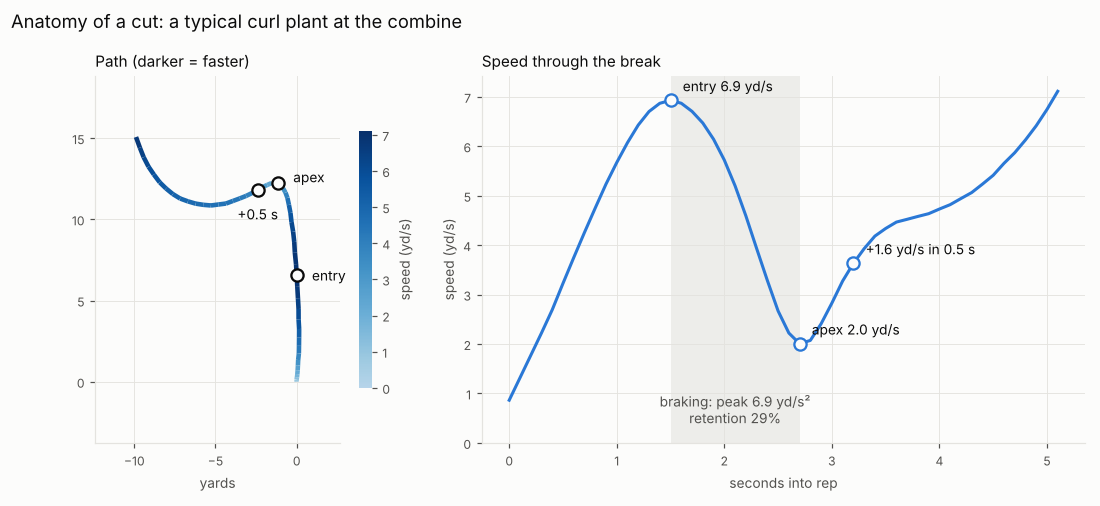
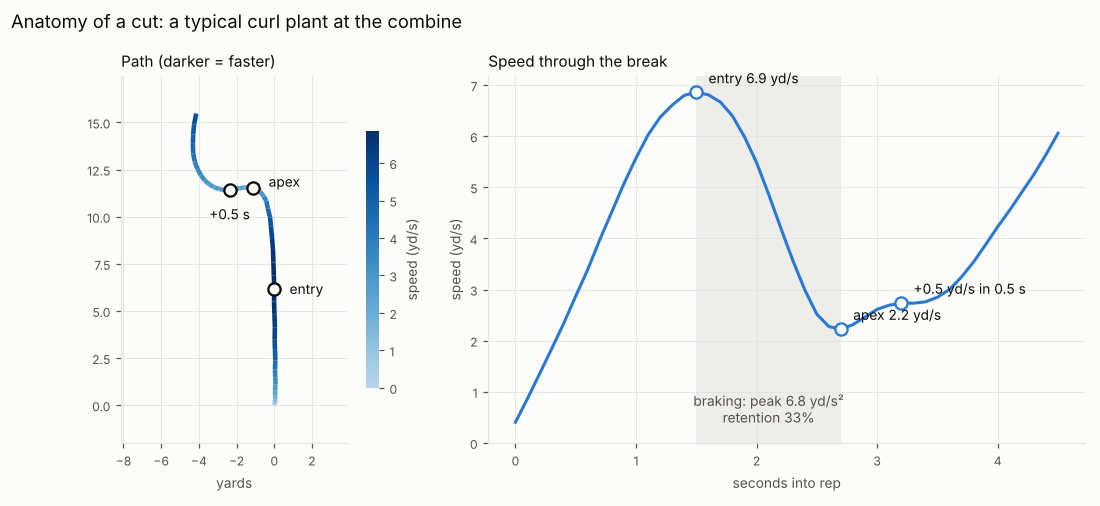
Score cuts against breaks of equal sharpness; generalize feature helpers
- slot_z now z-scores each metric's residual after a linear fit on the
  break's turn angle within its slot (a sharper break must cost more
  speed). Raises the pre-registered combine features' split-half
  reliability from 0.51-0.58 to 0.55-0.63 and the agility validity of
  braking vs official shuttle / 3-cone times from -0.50 / -0.44 to
  -0.58 / -0.53. Chosen on reliability only.
- slot_z, player_features and split_half_reliability take the drill /
  route column, the rep id and the split unit as parameters, so game
  routes reuse them; reliability splits are sorted first so results
  don't depend on row order.
- player_features no longer crashes on a subset with cuts in only one
  direction (left - right becomes NaN).
- cuts_for_reps records each cut's apex timestamp.
- Phase 1 report: named table indexes, wider anatomy path panel.

Claude-Session: https://claude.ai/code/session_01KARSdv58GFQzwQ5X8XHC21

diff --git a/src/features.py b/src/features.py
@@ -1,15 +1,21 @@
-"""Player-level combine cut features.
+"""Player-level cut features (combine drills and game routes).
 
 Raw cut metrics are not comparable across breaks (a 180-degree curl costs far
 more speed than a 45-degree slant break), and players ran different drill sets.
 So each metric is z-scored within its *slot*: the same break of the same drill
-across players. A player's feature is the mean of those z-scores over their
-cuts, so 0 = average for the breaks they ran.
+across players, after adjusting for how sharp the break was. A player's feature
+is the mean of those z-scores over their cuts, so 0 = average for the breaks
+they ran.
 
 Slots in route drills are drill x turn direction x order (the curl's plant is
 CURL_ROUTE_RIGHT|L1, the turn upfield after the catch is CURL_ROUTE_RIGHT|R1),
 because each route breaks a fixed way. In the shuttle and 3-cone the player
 chooses which way to turn, so slots there are drill x cut order.
+
+Game routes use the same scheme with the route type in place of the drill
+(`base="route_ran"`), extra adjustments for play design (`covariates`, see
+`src/game.py`), and games in place of drills as the unit for split-half
+reliability (`unit="game_id"`).
 """
 from __future__ import annotations
 
@@ -44,23 +50,46 @@ def combine_cuts(con, drill_types: tuple[str, ...]) -> pd.DataFrame:
     return cuts.join(reps, on="event_id")
 
 
-def slot_z(cuts: pd.DataFrame, by_direction: bool, metrics=tuple(METRICS)) -> pd.DataFrame:
-    """Add `slot` and `<metric>_z` (z-score within slot). Slots with < MIN_CUTS_PER_SLOT cuts are dropped."""
-    c = cuts.sort_values(["event_id", "apex_frame"]).copy()
+def slot_z(cuts: pd.DataFrame, by_direction: bool, metrics=tuple(METRICS), base: str = "drill_name",
+           rep: str = "event_id", covariates: tuple[str, ...] = ("turn_deg",)) -> pd.DataFrame:
+    """Add `slot` and `<metric>_z`: the metric's residual within its slot after a linear fit on
+    `covariates`, divided by the slot's residual SD. Slots with < MIN_CUTS_PER_SLOT cuts are dropped.
+
+    The default adjusts for the turn angle, so breaks are compared at equal sharpness: a sharper
+    break has to cost more speed. `base` names the drill (or route type) column and `rep` the
+    column identifying one rep (or route).
+    """
+    c = cuts.sort_values([rep, "apex_frame"]).copy()
     if by_direction:
-        order = c.groupby(["event_id", "turn_dir"]).cumcount() + 1
-        c["slot"] = c["drill_name"] + "|" + c["turn_dir"] + order.astype(str)
+        order = c.groupby([rep, "turn_dir"]).cumcount() + 1
+        c["slot"] = c[base] + "|" + c["turn_dir"] + order.astype(str)
     else:
-        c["slot"] = c["drill_name"] + "|" + (c["cut_idx"] + 1).astype(str)
-    c = c[c.groupby("slot")["event_id"].transform("size") >= MIN_CUTS_PER_SLOT].copy()
+        order = c.groupby(rep).cumcount() + 1
+        c["slot"] = c[base] + "|" + order.astype(str)
+    c = c[c.groupby("slot")[rep].transform("size") >= MIN_CUTS_PER_SLOT].copy()
     for m in metrics:
-        g = c.groupby("slot")[m]
-        c[f"{m}_z"] = (c[m] - g.transform("mean")) / g.transform("std")
+        c[f"{m}_z"] = np.nan
+    for _, idx in c.groupby("slot").groups.items():
+        d = c.loc[idx]
+        cov = d[list(covariates)].to_numpy(float).reshape(len(d), len(covariates))
+        cov = cov[:, np.nan_to_num(np.nanstd(cov, axis=0)) > 0]  # drop covariates constant within the slot
+        X = np.column_stack([np.ones(len(d)), cov])
+        for m in metrics:
+            y = d[m].to_numpy(float)
+            ok = np.isfinite(y) & np.isfinite(X).all(axis=1)
+            if ok.sum() < MIN_CUTS_PER_SLOT:
+                continue
+            beta, *_ = np.linalg.lstsq(X[ok], y[ok], rcond=None)
+            r = y - X @ beta
+            c.loc[idx, f"{m}_z"] = np.where(ok, r / np.std(r[ok], ddof=X.shape[1]), np.nan)
     return c
 
 
-def player_features(zcuts: pd.DataFrame, prefix: str, metrics=tuple(METRICS)) -> pd.DataFrame:
-    """One row per player: mean drill-z per metric, plus left/right asymmetry and consistency.
+def player_features(zcuts: pd.DataFrame, prefix: str, metrics=tuple(METRICS),
+                    unit: str = "drill_name", unit_label: str = "drills") -> pd.DataFrame:
+    """One row per player: mean slot-z per metric, plus left/right asymmetry and consistency.
+
+    `<prefix>_n_cuts`, `<prefix>_n_<unit_label>`  cuts and distinct units (drills or games) behind the row
 
     `<prefix>_<metric>`          mean z over all cuts
     `<prefix>_<metric>_lr`       mean z on left cuts minus mean z on right cuts
@@ -69,35 +98,36 @@ def player_features(zcuts: pd.DataFrame, prefix: str, metrics=tuple(METRICS)) ->
     g = zcuts.groupby("nfl_id")
     feats = pd.DataFrame({
         f"{prefix}_n_cuts": g.size(),
-        f"{prefix}_n_drills": g["drill_name"].nunique(),
+        f"{prefix}_n_{unit_label}": g[unit].nunique(),
     })
     for m in metrics:
         z = f"{m}_z"
         feats[f"{prefix}_{m}"] = g[z].mean()
         side = zcuts.pivot_table(index="nfl_id", columns="turn_dir", values=z, aggfunc="mean")
-        feats[f"{prefix}_{m}_lr"] = side.get("L") - side.get("R")
+        side = side.reindex(columns=["L", "R"])  # a subset may hold no cuts in one direction
+        feats[f"{prefix}_{m}_lr"] = side["L"] - side["R"]
         feats[f"{prefix}_{m}_sd"] = g[z].std()
     return feats
 
 
 def split_half_reliability(zcuts: pd.DataFrame, n_iter: int = 200, seed: int = 0,
-                           metrics=tuple(METRICS), min_drills: int = 4) -> pd.DataFrame:
+                           metrics=tuple(METRICS), min_units: int = 4, unit: str = "drill_name") -> pd.DataFrame:
     """Spearman-Brown corrected split-half reliability of each player feature.
 
-    Each iteration splits every player's drills at random into two halves (a
-    drill's cuts stay together), computes the feature on each half, and
-    correlates the halves across players.
+    Each iteration splits every player's units (drills, or games) at random into
+    two halves (a unit's cuts stay together), computes the feature on each half,
+    and correlates the halves across players with at least `min_units` units.
     """
     rng = np.random.default_rng(seed)
-    z = zcuts[zcuts.groupby("nfl_id")["drill_name"].transform("nunique") >= min_drills]
-    pairs = z[["nfl_id", "drill_name"]].drop_duplicates()
+    z = zcuts[zcuts.groupby("nfl_id")[unit].transform("nunique") >= min_units]
+    pairs = z[["nfl_id", unit]].drop_duplicates().sort_values(["nfl_id", unit])
     stats = {k: [] for m in metrics for k in (m, f"{m}_lr", f"{m}_sd")}
     for _ in range(n_iter):
         half = pairs.assign(h=rng.random(len(pairs)))
         half["h"] = half.groupby("nfl_id")["h"].rank(method="first") % 2
-        zz = z.merge(half, on=["nfl_id", "drill_name"])
-        a = player_features(zz[zz.h == 0], "f", metrics)
-        b = player_features(zz[zz.h == 1], "f", metrics)
+        zz = z.merge(half, on=["nfl_id", unit])
+        a = player_features(zz[zz.h == 0], "f", metrics, unit=unit)
+        b = player_features(zz[zz.h == 1], "f", metrics, unit=unit)
         for k in stats:
             r = a[f"f_{k}"].corr(b[f"f_{k}"])
             stats[k].append(2 * r / (1 + r) if r > -1 else np.nan)

diff --git a/notebooks/01_combine_features.py b/notebooks/01_combine_features.py
@@ -101,7 +101,8 @@ report.extend([
     "- Per cut: speed into the break (max over the prior 1.5 s), apex speed, speed retention (apex / entry), "
     "peak braking, distance used to slow down, peak lateral acceleration, speed regained 0.5 s after the apex.",
     "- Each metric is z-scored within its **slot** (the same break of the same drill across players, e.g. "
-    "the curl's plant). A player's feature is their mean z, so players who ran different drills are comparable.",
+    "the curl's plant) after a linear adjustment for the break's turn angle, so breaks are compared at equal "
+    "sharpness. A player's feature is their mean z, so players who ran different drills are comparable.",
     "",
 ])
 
@@ -224,11 +225,12 @@ stop = ["forty", "ten_yd_split", "three_cone", "short_shuttle", "vertical", "bro
         "combine_height"]
 wr = feats[feats.combine_position == "WR"].join(cr[stop])
 cols = [f"pos_{m}" for m in F.METRICS]
-vs = pd.DataFrame({c: [wr[f].corr(wr[c]) for f in cols] for c in stop}, index=list(F.METRICS))
+vs = pd.DataFrame({c: [wr[f].corr(wr[c]) for f in cols] for c in stop}, index=pd.Index(list(F.METRICS), name="feature"))
 section("WR features vs standard combine results (Pearson r)", vs, index=True,
         note=f"{len(wr)} WRs; 3-cone and shuttle times exist for only ~1/3 of them. Small |r| against the "
              "40 means the cut features are not just straight-line speed again.")
-section("WR feature intercorrelations", wr[cols].corr().set_axis(list(F.METRICS)).set_axis(list(F.METRICS), axis=1),
+section("WR feature intercorrelations",
+        wr[cols].corr().set_axis(pd.Index(list(F.METRICS), name="feature")).set_axis(list(F.METRICS), axis=1),
         index=True)
 
 # %% [markdown]
@@ -264,8 +266,10 @@ for i, label, off, ha in [(entry, "entry", (10, 0), "left"), (apex, "apex", (10,
     ax0.annotate(label, (x[i], y[i]), xytext=off, textcoords="offset points", color=INK, fontsize=9,
                  va="center", ha=ha)
 ax0.set_aspect("equal")
-ax0.autoscale()
-ax0.margins(0.25)
+# At least +/-6 yd of width, so labels beside a narrow path stay clear of the color bar.
+cx, half = (x.min() + x.max()) / 2, max((x.max() - x.min()) / 2 + 3, 6)
+ax0.set_xlim(cx - half, cx + half)
+ax0.set_ylim(y.min() - 2, y.max() + 2)
 ax0.set_title("Path (darker = faster)", loc="left")
 ax0.set_xlabel("yards")
 cb = fig.colorbar(lc, ax=ax0, shrink=0.7)

diff --git a/tests/test_features.py b/tests/test_features.py
@@ -1,0 +1,33 @@
+"""Slot scoring: the turn-angle adjustment separates a player's mechanics from how sharp their breaks were."""
+import numpy as np
+import pandas as pd
+
+from src.features import player_features, slot_z
+
+
+def test_slot_z_adjusts_for_turn_angle():
+    rng = np.random.default_rng(0)
+    rows = []
+    for player, (skill, sharpness) in enumerate([(+0.1, 30), (0.0, 60), (-0.1, 90)]):
+        for rep in range(40):
+            turn = sharpness + rng.normal(0, 5)
+            # Retention falls with sharper breaks; within that, player 0 keeps the most speed.
+            rows.append({"event_id": f"{player}_{rep}", "nfl_id": player, "drill_name": "D", "turn_dir": "L",
+                         "apex_frame": 10, "turn_deg": turn,
+                         "speed_retention": 1.0 - turn / 120 + skill + rng.normal(0, 0.02)})
+    cuts = pd.DataFrame(rows)
+    raw = player_features(slot_z(cuts, True, metrics=("speed_retention",), covariates=()), "f",
+                          metrics=("speed_retention",))
+    adj = player_features(slot_z(cuts, True, metrics=("speed_retention",)), "f", metrics=("speed_retention",))
+    # Unadjusted, the gentle-breaking player looks best by a wide margin; adjusted, the skill order holds
+    # and the gap shrinks to what skill alone explains.
+    assert raw["f_speed_retention"].idxmax() == 0
+    assert adj["f_speed_retention"].is_monotonic_decreasing
+    spread = lambda f: f["f_speed_retention"].max() - f["f_speed_retention"].min()
+    assert spread(adj) < spread(raw)
+
+
+def test_slot_z_drops_small_slots():
+    cuts = pd.DataFrame({"event_id": [f"r{i}" for i in range(5)], "nfl_id": 1, "drill_name": "D",
+                         "turn_dir": "L", "apex_frame": 10, "turn_deg": 45.0, "speed_retention": 0.9})
+    assert slot_z(cuts, True, metrics=("speed_retention",)).empty

diff --git a/src/cuts.py b/src/cuts.py
@@ -148,6 +148,8 @@ def cuts_for_reps(frames: pd.DataFrame, rep_cols: list[str]) -> pd.DataFrame:
             continue
         k = kinematics(r["x"].to_numpy(float), r["y"].to_numpy(float))
         key = key if isinstance(key, tuple) else (key,)
+        times = r["time"].to_numpy()
         for i, c in enumerate(detect_cuts(k)):
-            out.append({**dict(zip(rep_cols, key)), "cut_idx": i, "n_frames": len(r), **c})
+            out.append({**dict(zip(rep_cols, key)), "cut_idx": i, "n_frames": len(r),
+                        "apex_time": times[c["apex_frame"]], **c})
     return pd.DataFrame(out)

diff --git a/reports/01_combine_features.md b/reports/01_combine_features.md
@@ -9,16 +9,16 @@ Generated by `notebooks/01_combine_features.py`. Do not edit by hand.
 - [x] go route: no cuts on a straight sprint — 100% of 105 reps
 - [x] 3-cone: median of ≥ 4 cuts per rep
 - [x] first-break direction matches the route in ≥ 90% of reps, every route — min 91%
-- [x] SHORT_SHUTTLE: harder braking goes with a faster official time — r = -0.50
-- [x] THREE_CONE_DRILL: harder braking goes with a faster official time — r = -0.44
-- [x] pre-registered WR features have split-half reliability ≥ 0.45 — entry_speed 0.58, speed_retention 0.51, peak_lat_accel 0.53
+- [x] SHORT_SHUTTLE: harder braking goes with a faster official time — r = -0.58
+- [x] THREE_CONE_DRILL: harder braking goes with a faster official time — r = -0.53
+- [x] pre-registered WR features have split-half reliability ≥ 0.45 — entry_speed 0.63, speed_retention 0.55, peak_lat_accel 0.59
 
 ## Method
 
 - x/y are smoothed with a Savitzky–Golay filter (0.7 s, quadratic); velocity and acceleration come from its derivatives, split into along-track (braking / re-acceleration) and lateral (turning) parts. The same code will run on game routes in Phase 2.
 - A **cut** is a peak of at least 30° in the turn between the velocity 0.5 s before and 0.5 s after a frame. Its **apex** is the slowest frame near that peak. Cuts need ≥ 2 yd/s going in and ≥ 1.5 yd/s coming out.
 - Per cut: speed into the break (max over the prior 1.5 s), apex speed, speed retention (apex / entry), peak braking, distance used to slow down, peak lateral acceleration, speed regained 0.5 s after the apex.
-- Each metric is z-scored within its **slot** (the same break of the same drill across players, e.g. the curl's plant). A player's feature is their mean z, so players who ran different drills are comparable.
+- Each metric is z-scored within its **slot** (the same break of the same drill across players, e.g. the curl's plant) after a linear adjustment for the break's turn angle, so breaks are compared at equal sharpness. A player's feature is their mean z, so players who ran different drills are comparable.
 
 ## Cuts detected per rep
 
@@ -93,8 +93,8 @@ Negative = more of the feature goes with a faster official time. Players of all 
 
 | drill | players | entry_speed | speed_retention | peak_decel | decel_dist | peak_lat_accel | reaccel_gain |
 |---|---|---|---|---|---|---|---|
-| SHORT_SHUTTLE | 159 | -0.22 | 0.08 | -0.50 | 0.03 | -0.01 | -0.42 |
-| THREE_CONE_DRILL | 149 | -0.46 | -0.24 | -0.44 | 0.26 | -0.31 | -0.09 |
+| SHORT_SHUTTLE | 159 | -0.23 | -0.08 | -0.58 | 0.05 | -0.04 | -0.50 |
+| THREE_CONE_DRILL | 149 | -0.40 | -0.17 | -0.53 | 0.14 | -0.27 | -0.33 |
 
 ## Split-half reliability of WR position-drill features
 
@@ -102,36 +102,36 @@ Negative = more of the feature goes with a faster official time. Players of all 
 
 | metric | mean | left − right | consistency (SD) |
 |---|---|---|---|
-| entry_speed | 0.58 | -0.04 | 0.18 |
-| speed_retention | 0.51 | -0.17 | 0.25 |
-| peak_decel | 0.40 | 0.08 | 0.38 |
-| decel_dist | 0.23 | -0.02 | 0.00 |
-| peak_lat_accel | 0.53 | -0.10 | 0.28 |
-| reaccel_gain | 0.11 | -0.30 | 0.32 |
+| entry_speed | 0.63 | -0.08 | 0.10 |
+| speed_retention | 0.55 | -0.20 | 0.41 |
+| peak_decel | 0.33 | 0.18 | 0.39 |
+| decel_dist | 0.21 | 0.02 | -0.01 |
+| peak_lat_accel | 0.59 | 0.05 | 0.25 |
+| reaccel_gain | -0.02 | -0.25 | 0.31 |
 
 ## WR features vs standard combine results (Pearson r)
 
 107 WRs; 3-cone and shuttle times exist for only ~1/3 of them. Small |r| against the 40 means the cut features are not just straight-line speed again.
 
-| index | forty | ten_yd_split | three_cone | short_shuttle | vertical | broad_jump | combine_weight | combine_height |
+| feature | forty | ten_yd_split | three_cone | short_shuttle | vertical | broad_jump | combine_weight | combine_height |
 |---|---|---|---|---|---|---|---|---|
-| entry_speed | -0.09 | -0.00 | -0.14 | -0.20 | -0.06 | 0.06 | -0.06 | -0.01 |
-| speed_retention | -0.04 | 0.13 | -0.37 | 0.10 | 0.04 | -0.17 | 0.01 | -0.03 |
-| peak_decel | 0.04 | -0.13 | 0.35 | -0.11 | 0.04 | 0.19 | -0.07 | -0.03 |
-| decel_dist | -0.21 | -0.08 | 0.10 | -0.16 | -0.07 | 0.05 | -0.04 | 0.03 |
-| peak_lat_accel | -0.10 | -0.07 | -0.43 | -0.23 | 0.09 | 0.04 | -0.08 | -0.18 |
-| reaccel_gain | -0.02 | -0.08 | -0.02 | 0.04 | 0.13 | 0.16 | -0.12 | -0.17 |
+| entry_speed | -0.10 | 0.03 | -0.17 | -0.21 | -0.06 | 0.03 | -0.06 | -0.03 |
+| speed_retention | -0.07 | 0.03 | -0.49 | -0.02 | 0.00 | -0.16 | -0.01 | -0.13 |
+| peak_decel | 0.05 | -0.02 | 0.48 | 0.01 | 0.10 | 0.19 | -0.04 | 0.07 |
+| decel_dist | -0.21 | -0.08 | 0.06 | -0.16 | -0.05 | 0.04 | -0.03 | 0.02 |
+| peak_lat_accel | -0.16 | 0.00 | -0.47 | -0.23 | 0.11 | 0.02 | -0.06 | -0.15 |
+| reaccel_gain | -0.07 | 0.04 | 0.09 | 0.20 | 0.14 | 0.12 | -0.11 | -0.12 |
 
 ## WR feature intercorrelations
 
-| index | entry_speed | speed_retention | peak_decel | decel_dist | peak_lat_accel | reaccel_gain |
+| feature | entry_speed | speed_retention | peak_decel | decel_dist | peak_lat_accel | reaccel_gain |
 |---|---|---|---|---|---|---|
-| entry_speed | 1.00 | -0.03 | 0.09 | 0.52 | 0.35 | -0.15 |
-| speed_retention | -0.03 | 1.00 | -0.89 | -0.19 | 0.21 | -0.45 |
-| peak_decel | 0.09 | -0.89 | 1.00 | 0.21 | -0.04 | 0.55 |
-| decel_dist | 0.52 | -0.19 | 0.21 | 1.00 | 0.16 | -0.19 |
-| peak_lat_accel | 0.35 | 0.21 | -0.04 | 0.16 | 1.00 | 0.08 |
-| reaccel_gain | -0.15 | -0.45 | 0.55 | -0.19 | 0.08 | 1.00 |
+| entry_speed | 1.00 | -0.03 | 0.12 | 0.61 | 0.58 | -0.21 |
+| speed_retention | -0.03 | 1.00 | -0.81 | -0.10 | 0.57 | -0.13 |
+| peak_decel | 0.12 | -0.81 | 1.00 | 0.13 | -0.34 | 0.30 |
+| decel_dist | 0.61 | -0.10 | 0.13 | 1.00 | 0.22 | -0.26 |
+| peak_lat_accel | 0.58 | 0.57 | -0.34 | 0.22 | 1.00 | -0.10 |
+| reaccel_gain | -0.21 | -0.13 | 0.30 | -0.26 | -0.10 | 1.00 |
 
 ## Figures
 
